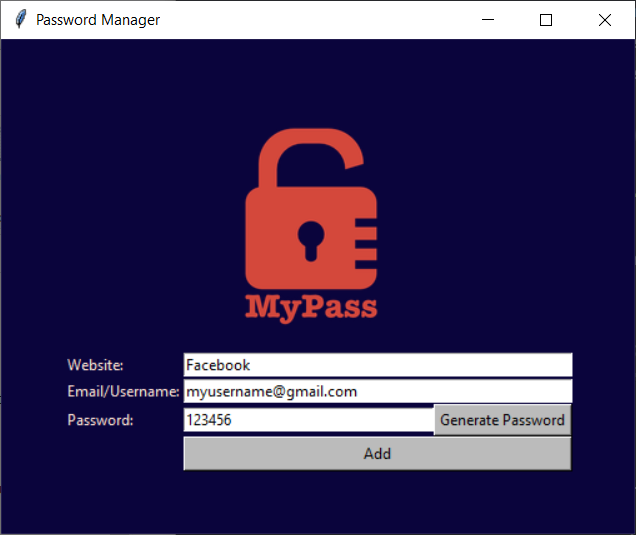
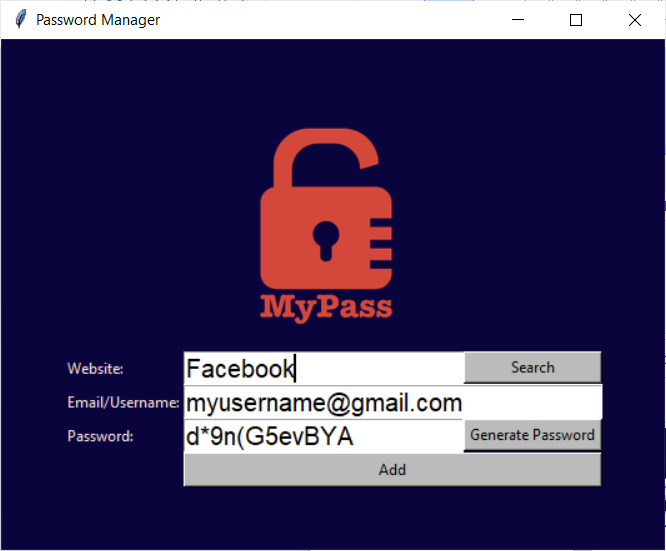
json file format

diff --git a/main.py b/main.py
@@ -3,6 +3,7 @@ from tkinter import messagebox
 import random
 import pyperclip
 from datetime import datetime
+import json
 
 NAVY = '#0A043C'
 GREY = '#bbbbbb'
@@ -49,29 +50,51 @@ def saved_entries():
     user_email = email_entry.get()
     user_password = password_entry.get()
 
+    new_data = {
+        user_website: {
+            'email': user_email,
+            'password': user_password
+            }
+        }
     if len(user_website) != 0 and len(user_password) != 0:
 
-        # PROMPT USER FOR CONFIRMATION
-        is_correct = messagebox.askyesno(
-            title=f'{user_website}',
-            message=f'Email: {user_email}\nPassword: {user_password}\nAre these correct?'
-            )
-        # CREATING FILE IF DOES NOT EXIST, AND APPENDING NEW ENTRY
-        if is_correct:
-            with open("saved_entries.txt", "a+") as f:
-                single_entry = f'{user_website} | {user_email} | {user_password} | {datetime.today().date()}'
-                f.write(single_entry)
-                f.write('\n')
-
-            # CLEAR ENTRY AFTER SAVING
-            website_entry.delete(0, END)
-            password_entry.delete(0, END)
+        try:
+            with open('data.json', 'r') as data_file:
+                data = json.load(data_file)
+                data.update(new_data)
+        except FileNotFoundError:
+            with open('data.json','w') as data_file:
+                json.dump(new_data, data_file, indent=4)
+        else:
+            is_correct = messagebox.askyesno(
+                    title=f"{user_website}",
+                    message=f"\n'email': {user_email}\n'password': {user_password}\n\nPlease confirm before saving!")
+            if is_correct:
+                with open('data.json','w') as data_file:
+                    json.dump(data, data_file, indent=4)
+                    website_entry.delete(0, END)
+                    password_entry.delete(0, END)
     else:
         # IF WEBSITE OR EMAIL ENTRY IS BLANK
         messagebox.showwarning(
             title='Oops',
             message="Please don't leave any fields empty!"
             )
+# ---------------------------- SEARCH FUNCTION ------------------------------- #
+def search_website():
+
+    user_website = website_entry.get().capitalize()
+
+    try:
+        with open('data.json', 'r') as data_file:
+            data = json.load(data_file)
+            user_password = data[user_website]['password']
+            password_entry.delete(0, END)
+            password_entry.insert(0, user_password)
+    except KeyError as error_msg:
+        messagebox.showinfo(title="Key Error", message=f"{error_msg} password does not exist")
+    except FileNotFoundError as error_msg:
+        messagebox.showinfo(message="File does not exist. Try using Add instead")
 # ---------------------------- UI SETUP ------------------------------- #
 
 root = Tk()
@@ -88,15 +111,18 @@ canvas.grid(row=0,column=1)
 website_label = Label(text='Website:', bg=NAVY, fg=BEIGE)
 website_label.grid(row=1,column=0,sticky="W")
 
-website_entry = Entry()
+website_entry = Entry(font=('Arial',15))
 website_entry.grid(row=1,column=1, columnspan=2,sticky="EW")
 website_entry.focus()
+
+website_search = Button(text='Search', bg=GREY, command=search_website)
+website_search.grid(row=1,column=2,sticky="EW")
 
 # ROW 2
 email_label = Label(text='Email/Username:', bg=NAVY, fg=BEIGE)
 email_label.grid(row=2,column=0,sticky="W")
 
-email_entry = Entry()
+email_entry = Entry(font=('Arial',15))
 email_entry.grid(row=2,column=1, columnspan=2,sticky="EW")
 email_entry.insert(0, 'myusername@gmail.com')
 
@@ -104,7 +130,7 @@ email_entry.insert(0, 'myusername@gmail.com')
 password_label = Label(text='Password:', bg=NAVY, fg=BEIGE)
 password_label.grid(row=3,column=0,sticky="W")
 
-password_entry = Entry()
+password_entry = Entry(font=('Arial',15))
 password_entry.grid(row=3,column=1,sticky="EW")
 
 password_button = Button(text='Generate Password', bg=GREY, command=random_password)

diff --git a/README.md b/README.md
@@ -7,12 +7,10 @@
 * pyperclip
 
 ### Description
-This application stores information such as website, email/username and password into a local file called saved_entries.txt. User can choose to input preferred password or request the application to create one. The randomly generated password will be auto-saved on clipboard.
+This application stores information such as website, email/username and password into a local json called data.json. User can choose to input preferred password or request the application to create one. The randomly generated password will be auto-saved on clipboard.
 
 ### Screenshots
 <img src='screenshots/1.png' width=500px>
 <img src='screenshots/2.png' width=300px>
 <img src='screenshots/3.png' width=500px>
-<img src='screenshots/4.png' width=300px>
-<img src='screenshots/5.png' width=500px>
-<img src='screenshots/6.png' width=500px>
+<img src='screenshots/4.png' width=500px>
